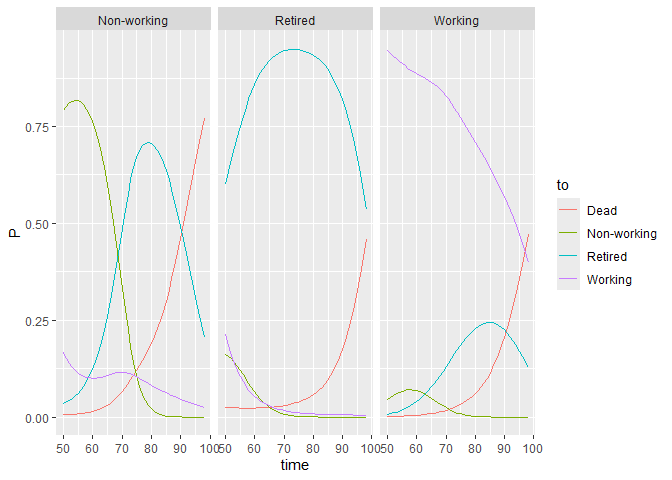
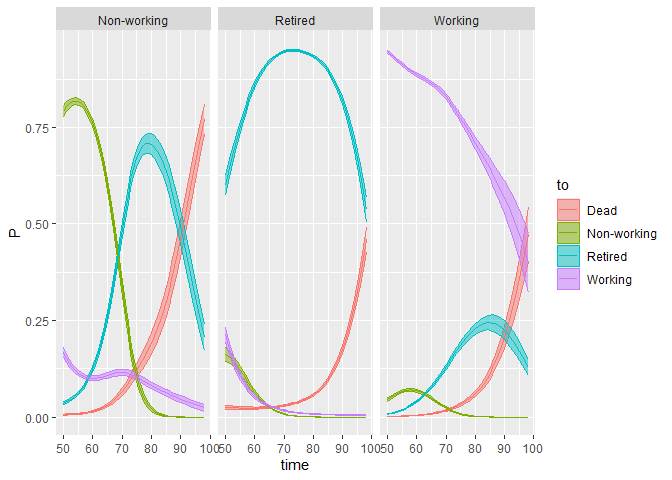
Update example 2, CIs

diff --git a/README.md b/README.md
@@ -1018,15 +1018,17 @@ fit <- dtms_fit(data=estdata,
   
 # Men
 probs_m <- dtms_transitions(dtms=hrs,
-                             model = fit,
-                             constant = list(Gender=0),
-                             varying = list(time2 = (50:98)^2))
+                            model = fit,
+                            constant = list(Gender=0),
+                            varying = list(time2 = (50:98)^2),
+                            CI=TRUE)
   
 # Women
 probs_w <- dtms_transitions(dtms=hrs,
                             model = fit,
                             constant = list(Gender=1),
-                            varying = list(time2 = (50:98)^2))
+                            varying = list(time2 = (50:98)^2),
+                            CI=TRUE)
 
 # Overview
 summary(probs_m)
@@ -1061,6 +1063,7 @@ summary(probs_w)
 # Plotting, men as example
 probs_m |>  dtms_simplify() |> 
             ggplot(aes(x=time,y=P,color=to)) + 
+            geom_ribbon(aes(ymin = CIlow, ymax = CIup,fill=to),alpha=0.5) +
             geom_line() + 
             facet_wrap(~from)
 ```
